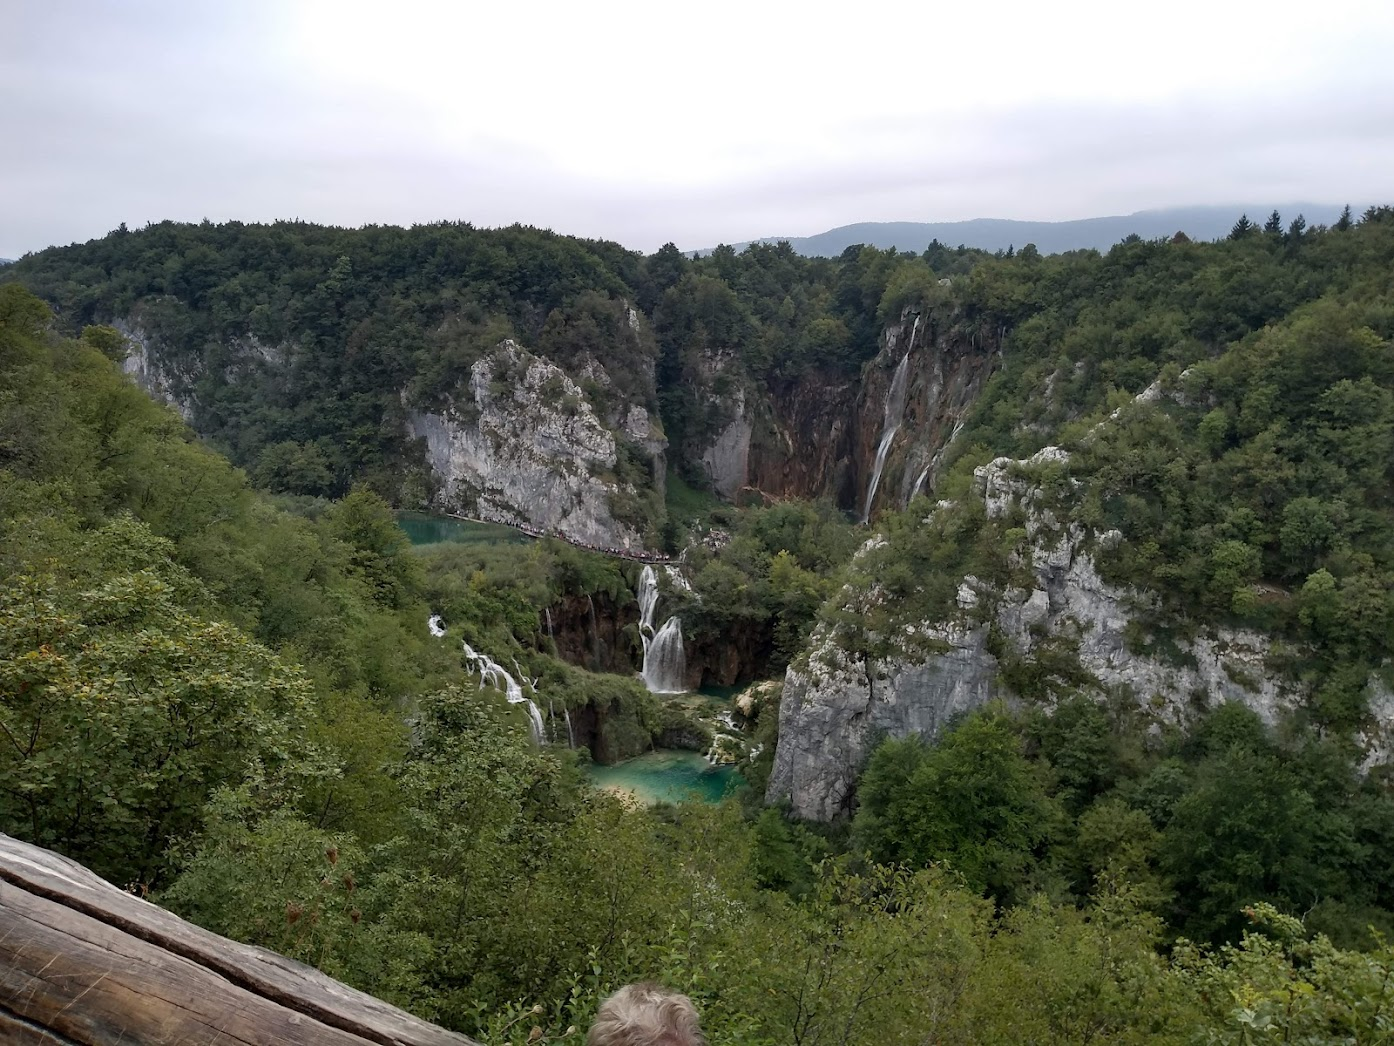
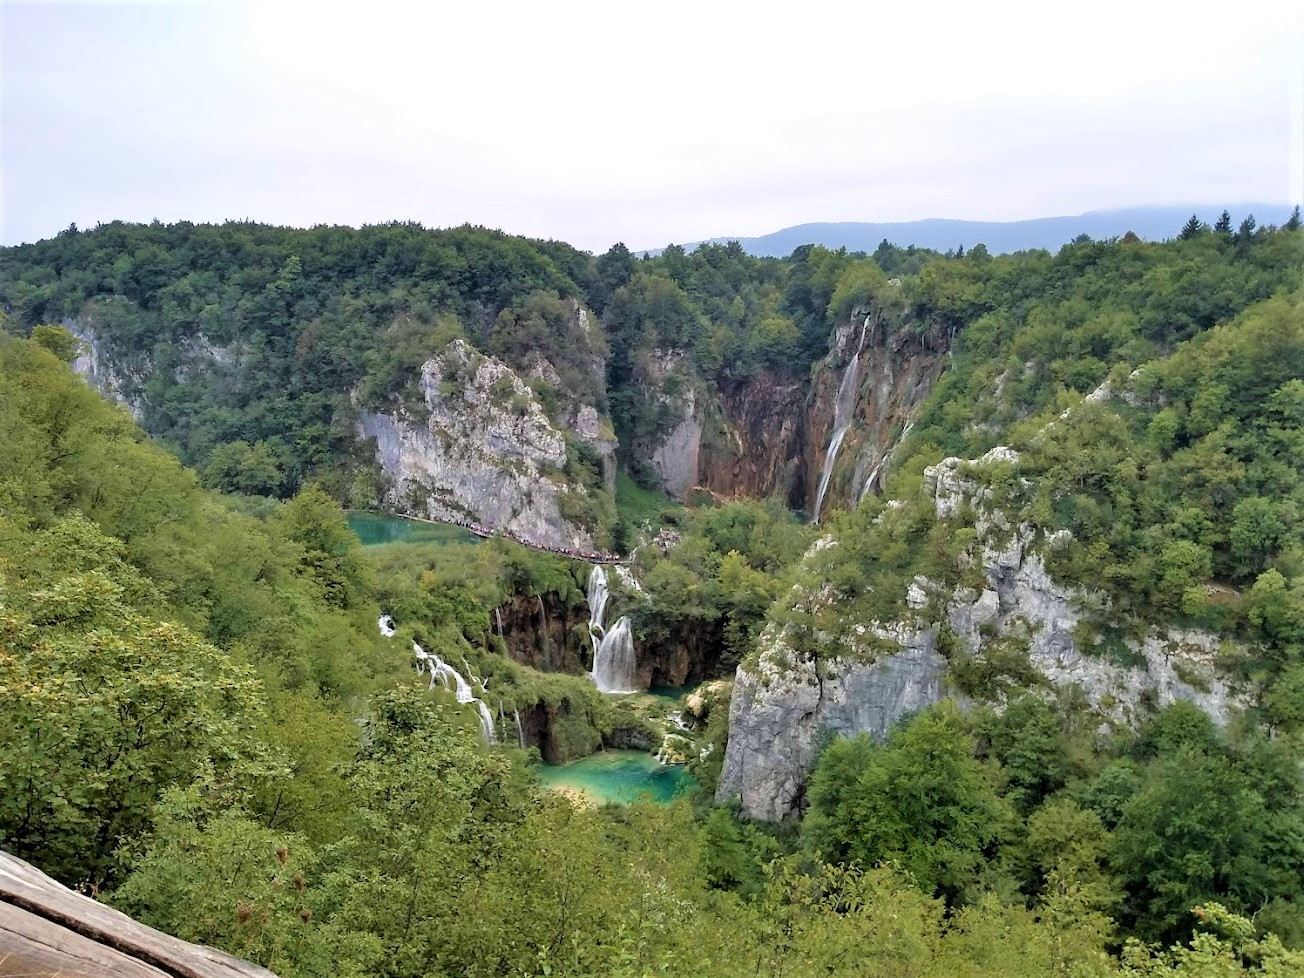
Added square photos to Croatia page

diff --git a/places/croatia.html b/places/croatia.html
@@ -101,5 +101,44 @@
     </div>
   </nav>
   <div class="hero hero-croatia"><h1 class="mt-5">Croatia</h1></div>
-  <div class="container"></div>
+  <div class="container">
+    <div class="row square-photos-row">
+      <div class="col d-none d-lg-block">
+        <img
+          src="/images/square/croatia-split-view.jpg"
+          alt="Skyline of Split, Croatia"
+          class="square-photo"
+        />
+      </div>
+
+      <div class="col d-none d-lg-block">
+        <img
+          src="/images/square/croatia-zadar-church-of-st-donatus-01.jpg"
+          alt="Church of St Donatus, Zadar, Croatia"
+          class="square-photo"
+        />
+      </div>
+      <div class="col d-none d-lg-block">
+        <img
+          src="/images/square/croatia-plitvice-lakes.jpg"
+          alt="Plitvice Lakes, Croatia"
+          class="square-photo"
+        />
+      </div>
+      <div class="col d-none d-lg-block">
+        <img
+          src="/images/square/croatia-split-fountain.jpg"
+          alt="Pirja Fountain, Split, Croatia"
+          class="square-photo"
+        />
+      </div>
+      <div class="col d-none d-lg-block">
+        <img
+          src="/images/square/croatia-split-gregory-portrait.jpg"
+          alt="Gregory of Nin, Split, Croatia"
+          class="square-photo"
+        />
+      </div>
+    </div>
+  </div>
 </body>
